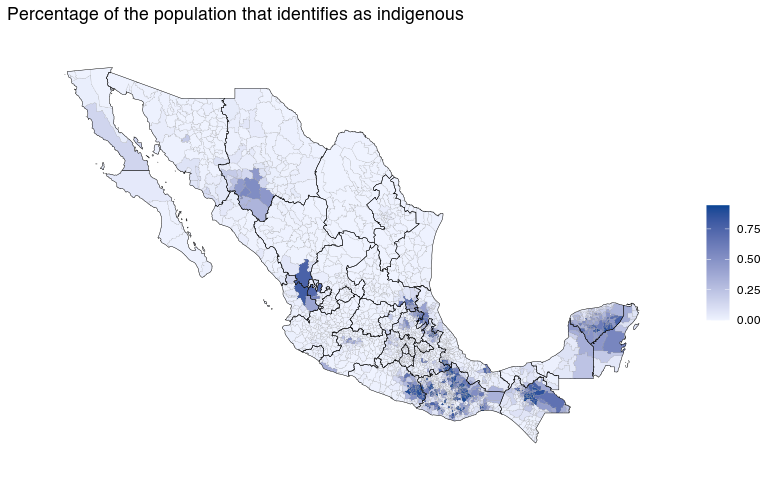
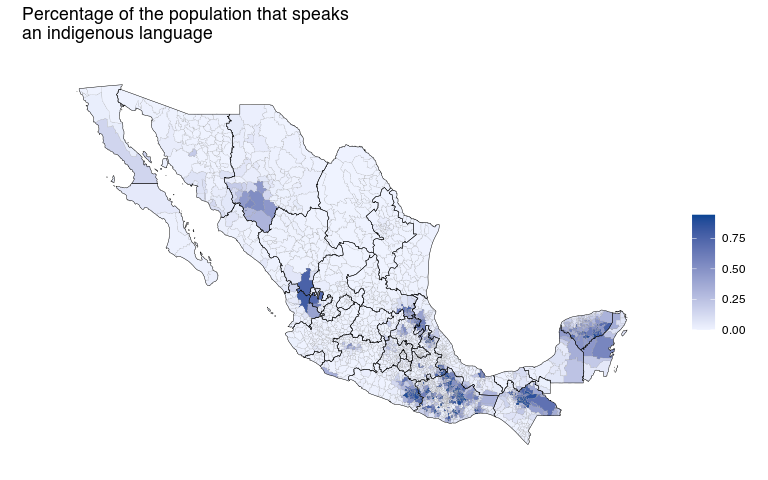
Update readme to use df_mxstate_2020 [skip ci]

Changed region(s): [[0.0938, 0.125, 0.8438, 0.9375], [0.0, 0.0, 0.5938, 0.0938], [0.875, 0.4062, 1.0, 0.7188]]

diff --git a/README.md b/README.md
@@ -64,9 +64,9 @@ column named “region” and one column named “value”. The entries for
 municipios (“01001”, “01002”, etc) either as a string with or without a
 leading “0” or as numerics. The functions `str_mxstate` and
 `str_mxmunicipio` are provided to easily format codes to the INEGI
-specification. Also, two example data.frames, `df_mxstate` and
-`df_mxmunicipio`, are provided with demographic variables from the
-Encuesta Intercensal 2015.
+specification. Also, two example data.frames, `df_mxstate_2020` and
+`df_mxmunicipio_2020`, are provided with demographic variables from the
+2020 census.
 
 ``` r
 data("df_mxstate_2020")
@@ -104,7 +104,7 @@ Here’s another example showing Mexican municipios (similar to counties):
 data("df_mxmunicipio_2020")
 df_mxmunicipio_2020$value <-  df_mxmunicipio_2020$indigenous_language / df_mxmunicipio_2020$pop 
 mxmunicipio_choropleth(df_mxmunicipio_2020, num_colors = 1,
-                       title = "Percentage of the population that identifies as indigenous")
+                       title = "Percentage of the population that speaks\nan indigenous language")
 ```
 
 ![](README_files/figure-gfm/unnamed-chunk-3-1.png)<!-- -->
